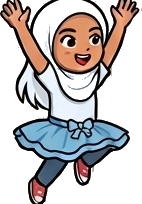
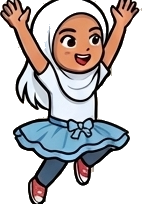
Add double jump, attack combat, i-frames, and controls legend
- Double jump: press jump again mid-air (edge-triggered input so
  holding the key can't spam extra jumps), shows the Double Jump pose.
- Attack: X key / on-screen button swings a hitbox in front of the
  player. Since the source art has only one static attack pose, the
  "animation" is code-driven - a procedural swipe-arc swoosh plus an
  impact particle burst on a landed hit - with its own sound effect.
- Hit mechanic overhaul: enemy contact no longer resets the player to
  the start. Instead it grants ~1.5s of blinking invincibility (i-frames)
  so there's room to escape, matching common platformer conventions.
  Falling into a pit still repositions to solid ground (nowhere else to
  stand) but also grants the same invincibility on respawn.
- Controls legend: shown on load (pauses the game behind it as a
  static preview) with a "?" button to reopen it anytime.
- Asset cache-busting (?v=N query param) so future sprite/sound updates
  can't get stuck behind a stale mobile browser cache.
- Re-extracted the jump pose with an improved background-removal pass
  (morphological erosion before flood fill) to fix a hole eaten into
  the hijab where the raised-arms pose broke the outline seal.

diff --git a/index.html b/index.html
@@ -30,6 +30,32 @@
     display: flex; align-items: center; justify-content: center;
     touch-action: manipulation; user-select: none;
   }
+  #helpBtn {
+    position: fixed; top: calc(max(10px, env(safe-area-inset-top)) + 78px);
+    right: max(16px, env(safe-area-inset-right));
+    font: bold 18px monospace; width: 32px; height: 32px; padding: 0; cursor: pointer;
+    background: rgba(0,0,0,0.4); color: #fff; border: 2px solid #fff; border-radius: 4px;
+  }
+  #legend {
+    position: fixed; inset: 0; display: flex; align-items: center; justify-content: center;
+    background: rgba(0,0,0,0.6); z-index: 20; padding: 16px; box-sizing: border-box;
+  }
+  #legend.hidden { display: none; }
+  #legend .panel {
+    background: rgba(20,30,50,0.95); border: 3px solid #fff; border-radius: 10px;
+    padding: 20px 24px; max-width: 380px; color: #fff; font: 14px monospace;
+    text-align: left;
+  }
+  #legend h2 { margin: 0 0 12px; font: bold clamp(18px, 5vw, 22px) monospace; text-align: center; }
+  #legend .row { display: flex; align-items: center; gap: 10px; margin: 8px 0; }
+  #legend .key {
+    display: inline-block; min-width: 28px; text-align: center; padding: 3px 8px;
+    background: rgba(255,255,255,0.15); border: 1px solid rgba(255,255,255,0.5); border-radius: 4px;
+    font-weight: bold;
+  }
+  #legend button {
+    display: block; margin: 16px auto 0; font: bold 16px monospace; padding: 8px 20px; cursor: pointer;
+  }
   #overlay {
     position: fixed; inset: 0; display: none; align-items: center; justify-content: center;
     flex-direction: column; font: bold clamp(20px, 6vw, 32px) monospace; color: #fff; text-shadow: 2px 2px #000;
@@ -53,6 +79,7 @@
   #btnLeft { left: max(24px, env(safe-area-inset-left)); }
   #btnRight { left: max(104px, calc(env(safe-area-inset-left) + 104px)); }
   #btnJump { right: max(24px, env(safe-area-inset-right)); width: 84px; height: 84px; font-size: 16px; }
+  #btnAttack { right: calc(max(24px, env(safe-area-inset-right)) + 96px); font-size: 24px; }
   .ctrlBtn.active { background: rgba(255,255,255,0.5); }
   #rotateHint {
     position: fixed; top: calc(max(10px, env(safe-area-inset-top)) + 40px); left: 50%; transform: translateX(-50%);
@@ -72,13 +99,26 @@
   <button id="zoomOutBtn" class="zoomBtn">−</button>
   <button id="zoomInBtn" class="zoomBtn">+</button>
 </div>
+<button id="helpBtn">?</button>
 <canvas id="game"></canvas>
 <div id="touchControls">
   <div id="btnLeft" class="ctrlBtn">◀</div>
   <div id="btnRight" class="ctrlBtn">▶</div>
+  <div id="btnAttack" class="ctrlBtn">⚔</div>
   <div id="btnJump" class="ctrlBtn">JUMP</div>
 </div>
 <div id="rotateHint">Tip: landscape gives a wider view</div>
+<div id="legend">
+  <div class="panel">
+    <h2>How to Play</h2>
+    <div class="row"><span class="key">◀ ▶</span> or <span class="key">A</span> <span class="key">D</span> — Move</div>
+    <div class="row"><span class="key">Space</span> or <span class="key">▲</span> — Jump (press again in air to double-jump)</div>
+    <div class="row"><span class="key">X</span> — Attack</div>
+    <div class="row">On mobile: use the ◀ ▶ ⚔ JUMP buttons on screen</div>
+    <div class="row">Stomp or attack enemies, avoid getting hit, reach the flag!</div>
+    <button id="legendCloseBtn">Let's go!</button>
+  </div>
+</div>
 <div id="overlay">
   <div id="overlayText"></div>
   <button id="restartBtn">Restart</button>
@@ -114,15 +154,20 @@ const GROUND_RATIO = 0.72;
 let GROUND_Y = Math.round(logicalHeight() * GROUND_RATIO);
 const GROUND_DEPTH = 600; // deep enough to fill below the ground on any screen height
 
+// Bump this whenever an image/sound asset file changes - it's appended as a query string so
+// browsers (mobile Safari especially) can't serve a stale cached copy of the updated file.
+const ASSET_VERSION = 2;
+
 // ---- Sounds (Kenney "Interface Sounds" & "Music Jingles" packs, CC0 - assets/sounds/) ----
 function loadSound(src) {
-  const audio = new Audio(src);
+  const audio = new Audio(src + '?v=' + ASSET_VERSION);
   audio.volume = 0.5;
   return audio;
 }
 const sounds = {
   jump: loadSound('assets/sounds/jump.mp3'),
   stomp: loadSound('assets/sounds/stomp.mp3'),
+  attack: loadSound('assets/sounds/attack.mp3'),
   hurt: loadSound('assets/sounds/hurt.mp3'),
   win: loadSound('assets/sounds/win.mp3'),
   gameover: loadSound('assets/sounds/gameover.mp3'),
@@ -153,11 +198,15 @@ function bindHoldButton(el, keyCode) {
 bindHoldButton(document.getElementById('btnLeft'), 'ArrowLeft');
 bindHoldButton(document.getElementById('btnRight'), 'ArrowRight');
 bindHoldButton(document.getElementById('btnJump'), 'Space');
+bindHoldButton(document.getElementById('btnAttack'), 'KeyX');
+// jump/attack also need one-shot "just pressed" edges, same as a keyboard press
+document.getElementById('btnJump').addEventListener('pointerdown', () => keysPressed.add('Space'));
+document.getElementById('btnAttack').addEventListener('pointerdown', () => keysPressed.add('KeyX'));
 
 // ---- Sprites (Kenney "Pixel Platformer" pack, CC0 - assets/KENNEY_LICENSE.txt) ----
 function loadImage(src) {
   const img = new Image();
-  img.src = src;
+  img.src = src + '?v=' + ASSET_VERSION;
   return img;
 }
 const sprites = {
@@ -175,10 +224,17 @@ const charSprites = {
   idle: loadImage('assets/character/idle.png'),
   run: loadImage('assets/character/run.png'),
   jump: loadImage('assets/character/jump.png'),
+  doubleJump: loadImage('assets/character/doublejump.png'),
+  attack: loadImage('assets/character/attack.png'),
   hurt: loadImage('assets/character/hurt.png'),
   victory: loadImage('assets/character/victory.png'),
 };
 const CHAR_DISPLAY_HEIGHT = 42; // world-unit height the character is drawn at (bottom-anchored on the hitbox)
+const JUMP_VELOCITY = -8;
+const ATTACK_DURATION = 24;       // total frames the attack pose/hitbox sequence lasts (~0.4s)
+const ATTACK_ACTIVE = [8, 18];    // frame window (counting down from ATTACK_DURATION) where the hit connects
+const ATTACK_LUNGE = 10;          // world-units the sprite visually lunges forward mid-swing
+const ATTACK_REACH = 26;          // width of the attack hitbox extending in front of the player
 const TILE = 30; // on-screen size for ground/block tiles
 
 // decorative trees & bushes along the level (purely visual, no collision) -
@@ -220,16 +276,34 @@ const enemies = [
 
 const player = {
   x: 40, y: GROUND_Y - 32, w: 24, h: 32,
-  vx: 0, vy: 0, onGround: false, facing: 1, alive: true, anim: 0, hurtTimer: 0,
+  vx: 0, vy: 0, onGround: false, facing: 1, alive: true, anim: 0,
+  hurtTimer: 0, attackTimer: 0, jumpsUsed: 0, invulnerable: 0,
 };
+const INVULN_DURATION = 90; // ~1.5s of blinking invincibility after getting hit - enough time to move away
 let lives = 3;
 let camX = 0;
-let state = 'playing'; // playing | win | dead
+let state = 'intro'; // intro | playing | win | dead
 const keys = {};
+// keysPressed: "just pressed this frame" edge detection (as opposed to `keys`, which is
+// held-down level state) - needed so jump/attack trigger once per press, not once per frame held
+const keysPressed = new Set();
 
-document.addEventListener('keydown', e => keys[e.code] = true);
+document.addEventListener('keydown', e => {
+  keys[e.code] = true;
+  if (!e.repeat) keysPressed.add(e.code);
+});
 document.addEventListener('keyup', e => keys[e.code] = false);
 document.getElementById('restartBtn').addEventListener('click', () => location.reload());
+
+const legend = document.getElementById('legend');
+document.getElementById('legendCloseBtn').addEventListener('click', () => {
+  legend.classList.add('hidden');
+  if (state === 'intro') state = 'playing';
+});
+document.getElementById('helpBtn').addEventListener('click', () => {
+  legend.classList.remove('hidden');
+  if (state === 'playing') state = 'intro'; // pause the action while re-reading controls
+});
 
 // on resize/orientation-change, recompute scale and shift existing entities so the
 // ground stays at the same screen proportion instead of resetting the game
@@ -265,20 +339,73 @@ function rectsOverlap(a, b) {
   return a.x < b.x + b.w && a.x + a.w > b.x && a.y < b.y + b.h && a.y + a.h > b.y;
 }
 
+// small impact-spark burst, spawned where an attack lands a hit
+const particles = [];
+function spawnBurst(x, y) {
+  for (let i = 0; i < 8; i++) {
+    const angle = (Math.PI * 2 * i) / 8 + Math.random() * 0.5;
+    const speed = 1 + Math.random() * 1.5;
+    particles.push({ x, y, vx: Math.cos(angle) * speed, vy: Math.sin(angle) * speed, life: 18, maxLife: 18 });
+  }
+}
+function updateParticles() {
+  for (let i = particles.length - 1; i >= 0; i--) {
+    const p = particles[i];
+    p.x += p.vx; p.y += p.vy; p.vy += 0.05; p.life--;
+    if (p.life <= 0) particles.splice(i, 1);
+  }
+}
+
 function updatePlayer() {
+  const jumpPressed = keysPressed.has('Space') || keysPressed.has('ArrowUp') || keysPressed.has('KeyW');
+  const attackPressed = keysPressed.has('KeyX');
+
   // horizontal input
   if (keys['ArrowLeft'] || keys['KeyA']) { player.vx = -1.6; player.facing = -1; }
   else if (keys['ArrowRight'] || keys['KeyD']) { player.vx = 1.6; player.facing = 1; }
   else player.vx = 0;
 
-  if ((keys['Space'] || keys['ArrowUp'] || keys['KeyW']) && player.onGround) {
-    player.vy = -8;
-    player.onGround = false;
-    playSound('jump');
+  // jump / double jump - edge-triggered (keysPressed) so holding the key can't spam extra jumps
+  if (jumpPressed) {
+    if (player.onGround) {
+      player.vy = JUMP_VELOCITY;
+      player.onGround = false;
+      player.jumpsUsed = 1;
+      playSound('jump');
+    } else if (player.jumpsUsed === 1) {
+      player.vy = JUMP_VELOCITY;
+      player.jumpsUsed = 2;
+      playSound('jump');
+    }
+  }
+
+  // attack - can't re-trigger until the current swing finishes; hits everything in
+  // front of the player during the active window in the middle of the swing
+  if (attackPressed && player.attackTimer <= 0) {
+    player.attackTimer = ATTACK_DURATION;
+    playSound('attack');
+  }
+  if (player.attackTimer > 0) {
+    player.attackTimer--;
+    const framesElapsed = ATTACK_DURATION - player.attackTimer;
+    if (framesElapsed >= ATTACK_ACTIVE[0] && framesElapsed <= ATTACK_ACTIVE[1]) {
+      const hitbox = {
+        x: player.facing > 0 ? player.x + player.w : player.x - ATTACK_REACH,
+        y: player.y, w: ATTACK_REACH, h: player.h,
+      };
+      for (const e of enemies) {
+        if (e.alive && rectsOverlap(hitbox, e)) {
+          e.alive = false;
+          playSound('stomp');
+          spawnBurst(e.x + e.w / 2, e.y + e.h / 2);
+        }
+      }
+    }
   }
 
   if (player.vx !== 0) player.anim += Math.abs(player.vx) * 0.15;
   if (player.hurtTimer > 0) player.hurtTimer--;
+  if (player.invulnerable > 0) player.invulnerable--;
 
   player.vy += GRAVITY;
   if (player.vy > 15) player.vy = 15;
@@ -302,6 +429,7 @@ function updatePlayer() {
         player.y = p.y - player.h;
         player.vy = 0;
         player.onGround = true;
+        player.jumpsUsed = 0;
       } else if (player.vy < 0) {
         player.y = p.y + p.h;
         player.vy = 0;
@@ -311,7 +439,7 @@ function updatePlayer() {
 
   // fell into a pit
   if (player.y > logicalHeight() + 100) {
-    killPlayer();
+    hurtPlayer(true);
   }
 
   // camera follows player, clamped to level bounds
@@ -324,19 +452,24 @@ function updatePlayer() {
     playSound('win');
     showOverlay('You Win!');
   }
+
+  keysPressed.clear(); // this frame's presses have been consumed
 }
 
-function killPlayer() {
-  if (state !== 'playing') return;
+// reposition=true for falling off the level (nowhere to stand, so send back to safe ground);
+// reposition=false for an enemy touch (stay put - blinking invincibility gives room to escape instead)
+function hurtPlayer(reposition) {
+  if (state !== 'playing' || player.invulnerable > 0) return;
   lives--;
   playSound('hurt');
   player.hurtTimer = 30; // ~0.5s showing the hurt pose
+  player.invulnerable = INVULN_DURATION;
   document.getElementById('lives').textContent = Math.max(lives, 0);
   if (lives <= 0) {
     state = 'dead';
     playSound('gameover');
     showOverlay('Game Over');
-  } else {
+  } else if (reposition) {
     resetPlayerPosition();
   }
 }
@@ -360,7 +493,7 @@ function updateEnemies() {
         player.vy = -8; // bounce off stomped enemy
         playSound('stomp');
       } else {
-        killPlayer();
+        hurtPlayer(false);
       }
     }
   }
@@ -432,16 +565,61 @@ function draw() {
   let poseImg;
   if (state === 'win') poseImg = charSprites.victory;
   else if (player.hurtTimer > 0) poseImg = charSprites.hurt;
-  else if (!player.onGround) poseImg = charSprites.jump;
+  else if (player.attackTimer > 0) poseImg = charSprites.attack;
+  else if (!player.onGround) poseImg = player.jumpsUsed >= 2 ? charSprites.doubleJump : charSprites.jump;
   else if (player.vx !== 0) poseImg = charSprites.run;
   else poseImg = charSprites.idle;
 
-  if (poseImg.naturalWidth > 0) {
+  // while invulnerable after getting hit, blink on/off every 4 frames (classic i-frames feedback)
+  const blinkedOut = player.invulnerable > 0 && Math.floor(player.invulnerable / 4) % 2 === 0;
+
+  if (poseImg.naturalWidth > 0 && !blinkedOut) {
     const dispH = CHAR_DISPLAY_HEIGHT;
     const dispW = dispH * (poseImg.naturalWidth / poseImg.naturalHeight);
-    const drawX = player.x + player.w / 2 - dispW / 2;
+    let drawX = player.x + player.w / 2 - dispW / 2;
     const drawY = player.y + player.h - dispH;
+
+    // procedural "lunge" for the attack swing, since the source art is a single static
+    // pose: thrust forward then back over the swing's duration (sine ease in/out)
+    if (player.attackTimer > 0) {
+      const progress = (ATTACK_DURATION - player.attackTimer) / ATTACK_DURATION;
+      drawX += Math.sin(progress * Math.PI) * ATTACK_LUNGE * player.facing;
+    }
+
     drawFacing(poseImg, drawX, drawY, dispW, dispH, player.facing);
+  }
+
+  // attack swipe VFX: a procedural magic-arc swoosh (the source art has only one static
+  // attack pose, so the "animation" is this canvas-drawn swing, not a sprite sequence)
+  if (player.attackTimer > 0) {
+    const progress = (ATTACK_DURATION - player.attackTimer) / ATTACK_DURATION;
+    const swipeAlpha = Math.sin(Math.min(progress, 1) * Math.PI);
+    const cx = player.x + player.w / 2;
+    const cy = player.y + player.h * 0.42;
+    ctx.save();
+    ctx.translate(cx, cy);
+    ctx.scale(player.facing, 1);
+    ctx.rotate((progress - 0.5) * 0.9);
+    ctx.strokeStyle = `rgba(255,255,255,${(0.85 * swipeAlpha).toFixed(2)})`;
+    ctx.lineWidth = 3;
+    ctx.beginPath();
+    ctx.arc(6, 0, 20, -0.7, 0.7);
+    ctx.stroke();
+    ctx.strokeStyle = `rgba(180,220,255,${(0.6 * swipeAlpha).toFixed(2)})`;
+    ctx.lineWidth = 1.5;
+    ctx.beginPath();
+    ctx.arc(6, 0, 14, -0.6, 0.6);
+    ctx.stroke();
+    ctx.restore();
+  }
+
+  // impact particles (spawned where a successful attack hit lands)
+  for (const p of particles) {
+    const alpha = p.life / p.maxLife;
+    ctx.fillStyle = `rgba(255,220,120,${alpha.toFixed(2)})`;
+    ctx.beginPath();
+    ctx.arc(p.x, p.y, 2.5 * alpha + 1, 0, Math.PI * 2);
+    ctx.fill();
   }
 }
 
@@ -449,6 +627,7 @@ function loop() {
   if (state === 'playing') {
     updatePlayer();
     updateEnemies();
+    updateParticles();
   }
   draw();
   requestAnimationFrame(loop);
